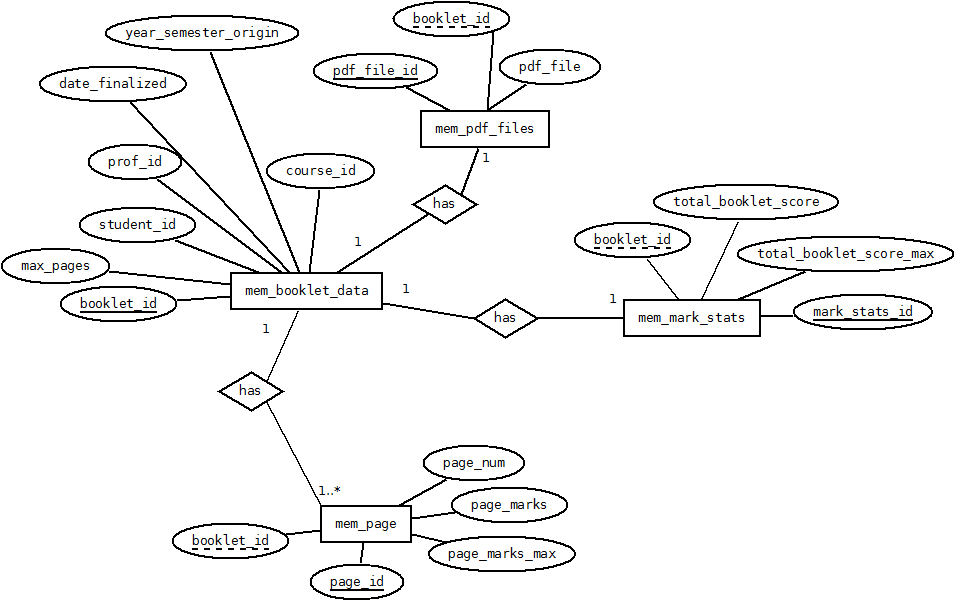
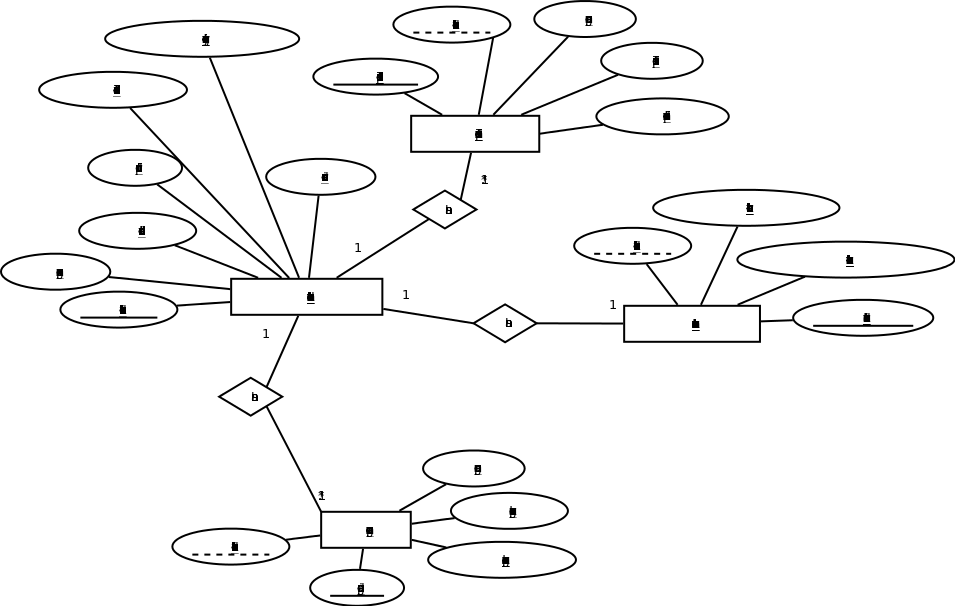
DB change, pdf comments binary and page num attributes.

diff --git a/local/memplugin/db/upgrade.php b/local/memplugin/db/upgrade.php
@@ -236,6 +236,30 @@ function xmldb_local_memplugin_upgrade($oldversion) {
         upgrade_plugin_savepoint(true, 2016031402, 'local', 'memplugin');
 	}
 
+    if ($oldversion < 2016032805) {
+
+        // Define field page_num to be added to mem_pdf_files.
+        $table = new xmldb_table('mem_pdf_files');
+        $field = new xmldb_field('page_num', XMLDB_TYPE_INTEGER, '2', null, XMLDB_NOTNULL, null, null, 'pdf_file');
+
+        // Conditionally launch add field page_num.
+        if (!$dbman->field_exists($table, $field)) {
+            $dbman->add_field($table, $field);
+        }
+
+        // Define field pdf_comments to be added to mem_pdf_files.
+        $table = new xmldb_table('mem_pdf_files');
+        $field = new xmldb_field('pdf_comments', XMLDB_TYPE_BINARY, null, null, null, null, null, 'page_num');
+
+        // Conditionally launch add field pdf_comments.
+        if (!$dbman->field_exists($table, $field)) {
+            $dbman->add_field($table, $field);
+        }
+
+        // Memplugin savepoint reached.
+        upgrade_plugin_savepoint(true, 2016032805, 'local', 'memplugin');
+    }
+
 
  	return true;   
 }    

diff --git a/local/memplugin/version.php b/local/memplugin/version.php
@@ -23,7 +23,7 @@
  * @license     http://www.gnu.org/copyleft/gpl.html GNU GPL v3 or later
  */
 
-$plugin->version = 2016031402;
+$plugin->version = 2016032805;
 $plugin->requires = 2011033006;
 $plugin->component = 'local_memplugin';
 $plugin->maturity = MATURITY_ALPHA;
